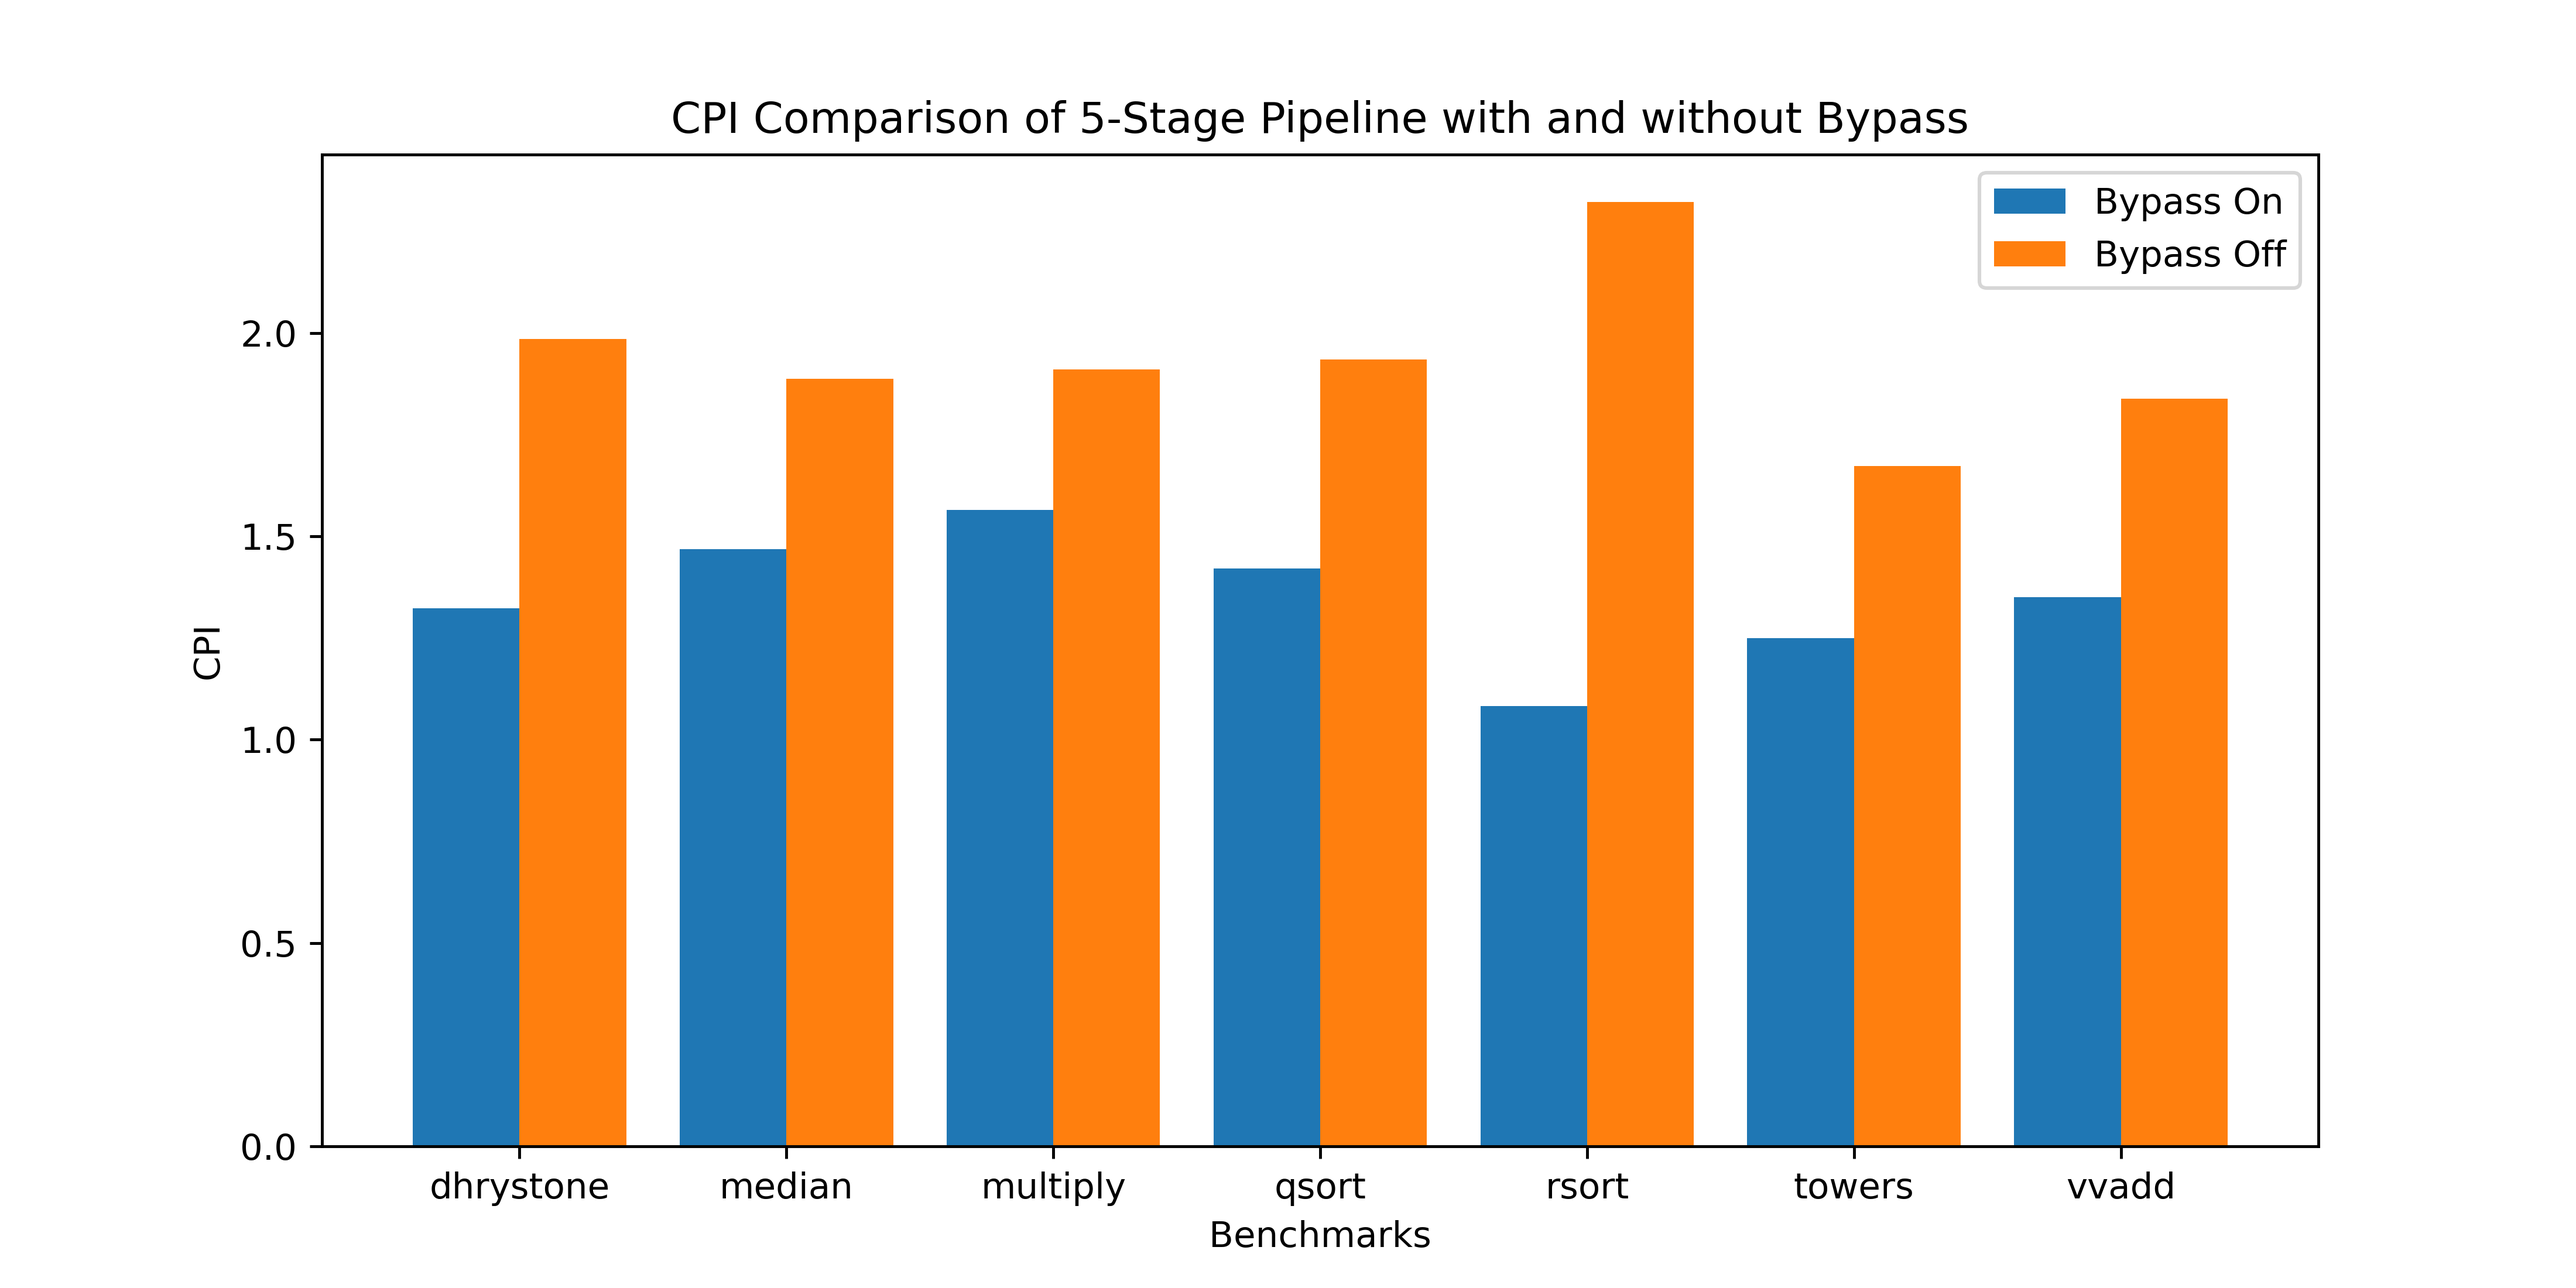
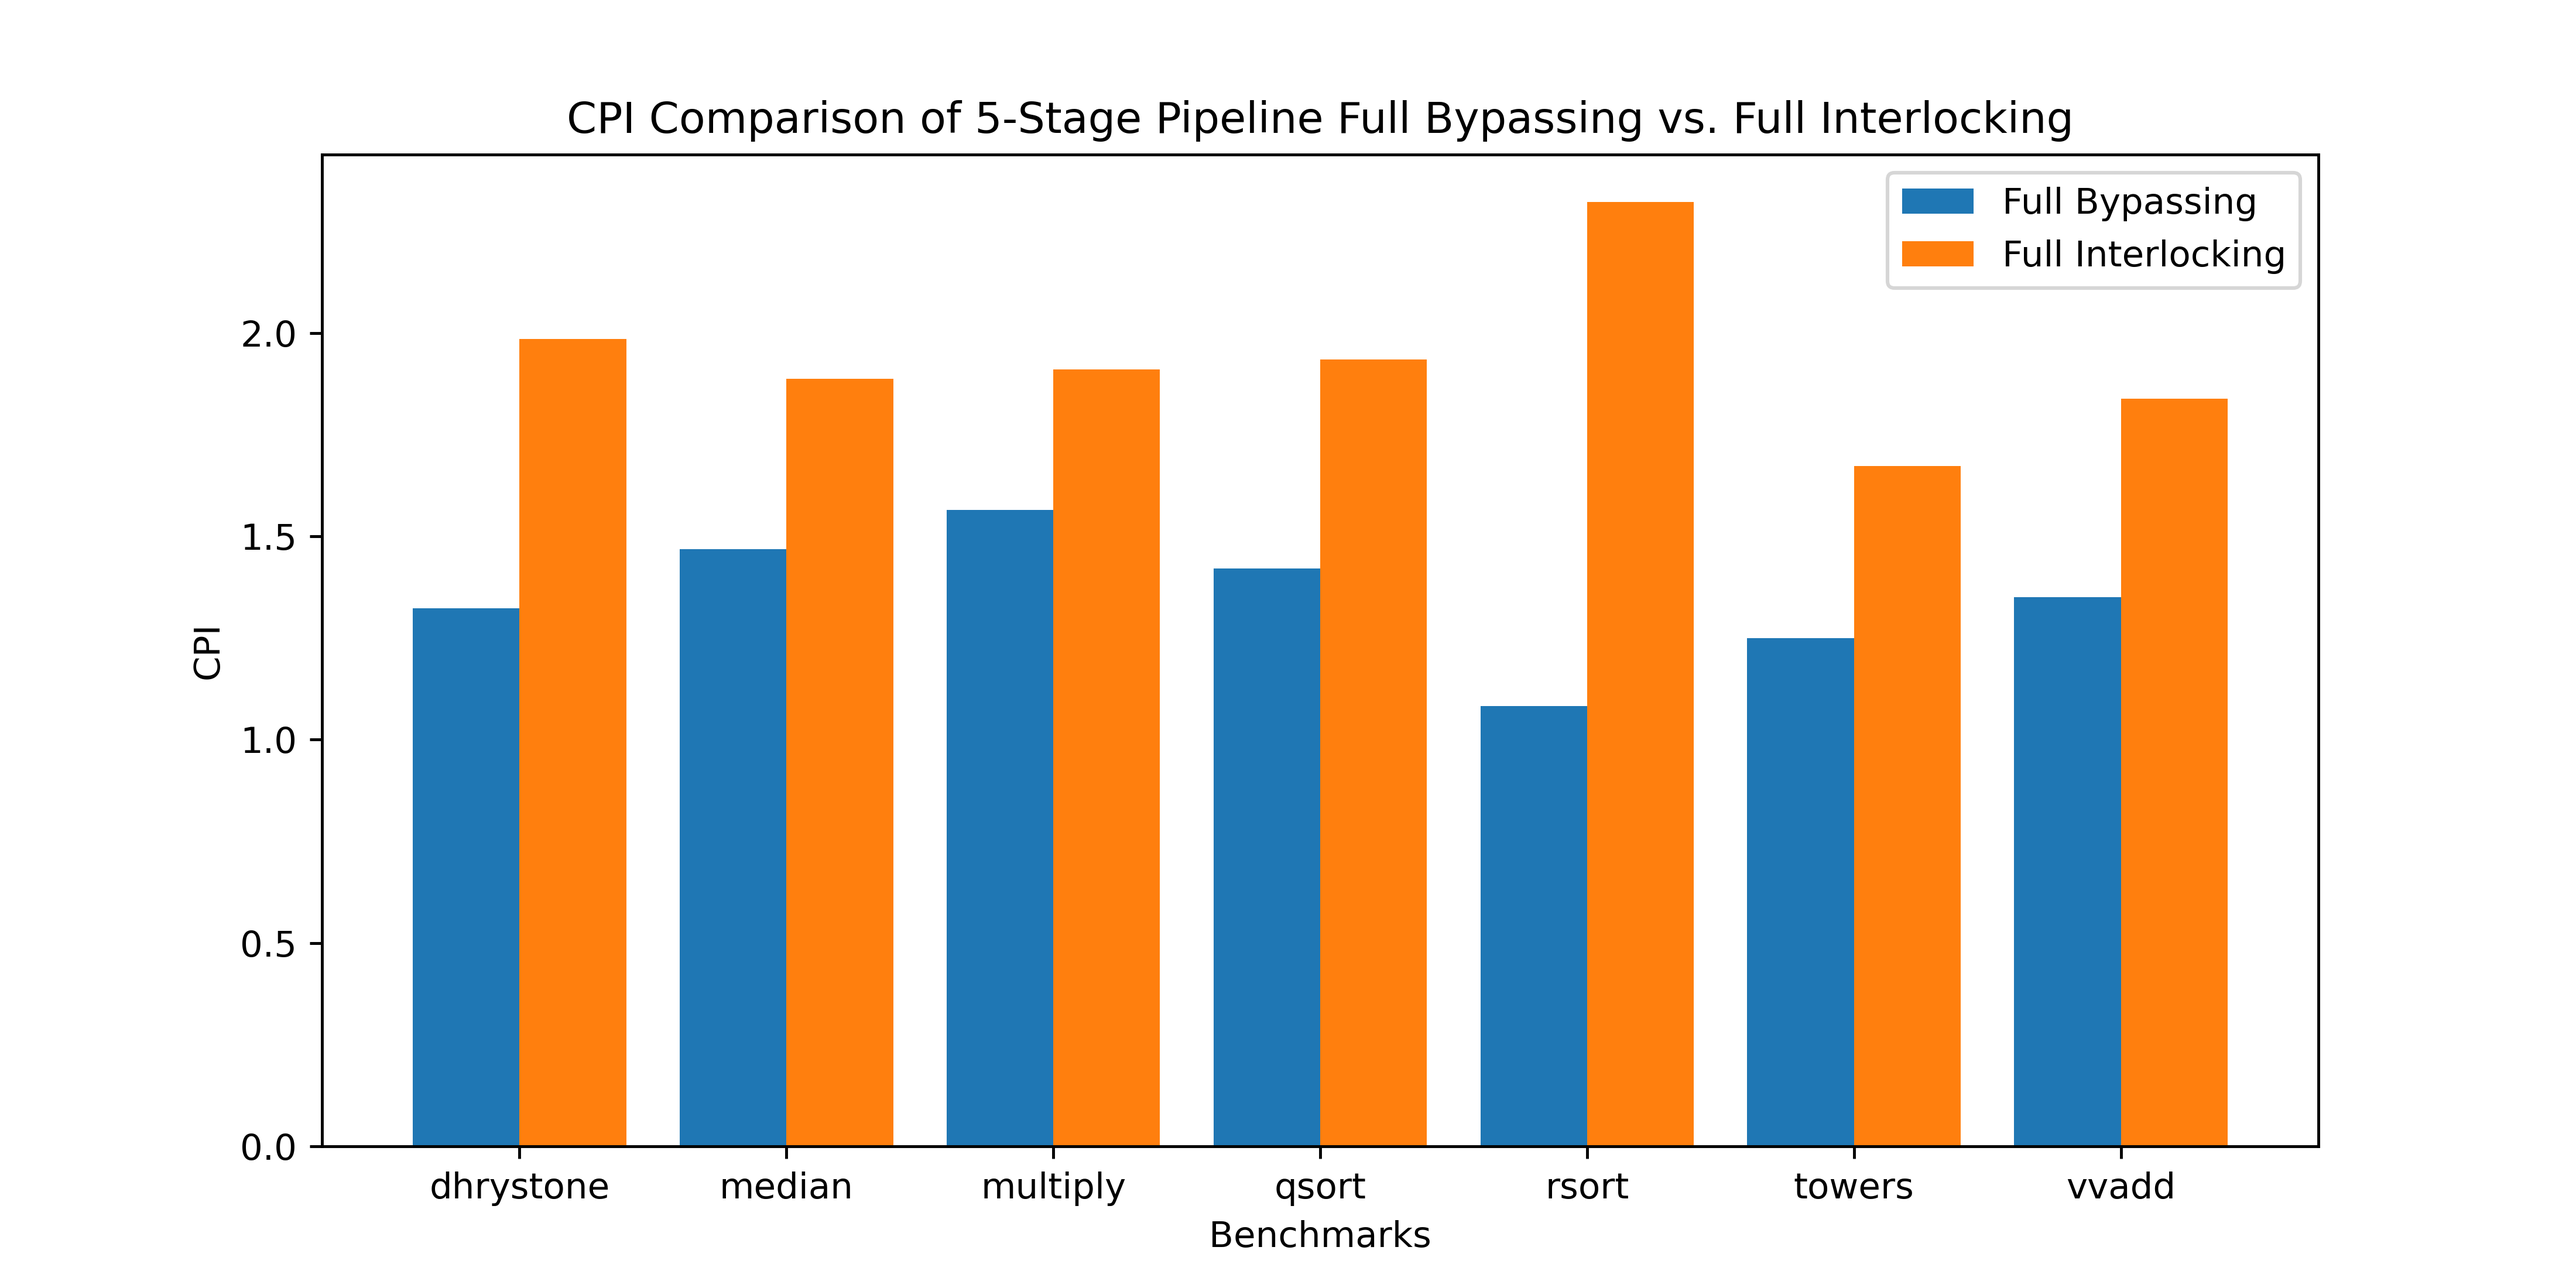
update graphs

Changed region(s): [[0.218, 0.0618, 0.903, 0.2164]]

diff --git a/submission.py b/submission.py
@@ -89,14 +89,17 @@ plt.clf()
 cpi_bypass_on = [1.323, 1.469, 1.565, 1.421, 1.083, 1.250, 1.351]
 cpi_bypass_off = [1.986, 1.888, 1.911, 1.935, 2.323, 1.673, 1.839]
 
+print("Percentage Slowdown for Bypass")
+for i in range(len(benchmarks)):
+    print(f"{benchmarks[i]} & {round(cpi_bypass_on[i] / cpi_bypass_off[i], 3)}")
+
 plt.figure(figsize=(10, 5), dpi=440)
-plt.bar(X_axis - 0.2, cpi_bypass_on, 0.4, label="Bypass On")
-plt.bar(X_axis + 0.2, cpi_bypass_off , 0.4, label="Bypass Off")
-plt.title("CPI Comparison of 5-Stage Pipeline with and without Bypass")
+plt.bar(X_axis - 0.2, cpi_bypass_on, 0.4, label="Full Bypassing")
+plt.bar(X_axis + 0.2, cpi_bypass_off , 0.4, label="Full Interlocking")
+plt.title("CPI Comparison of 5-Stage Pipeline Full Bypassing vs. Full Interlocking")
 plt.xticks(X_axis, benchmarks)
 plt.xlabel("Benchmarks")
 plt.ylabel("CPI")
-# plt.legend(loc='lower right')
 plt.legend()
 plt.savefig("figures/3_6.png")
 plt.clf()
